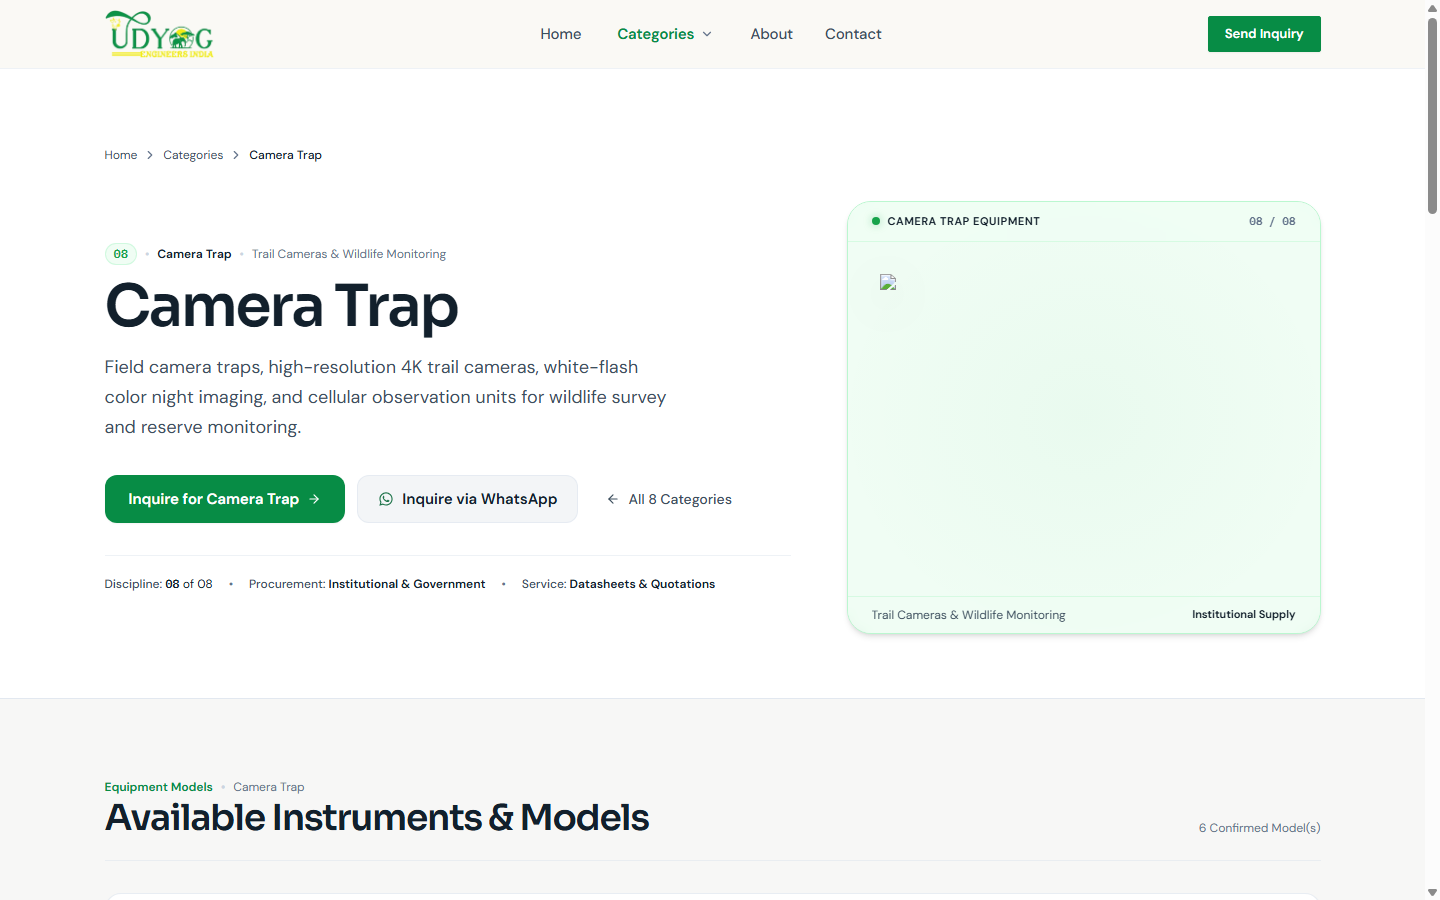
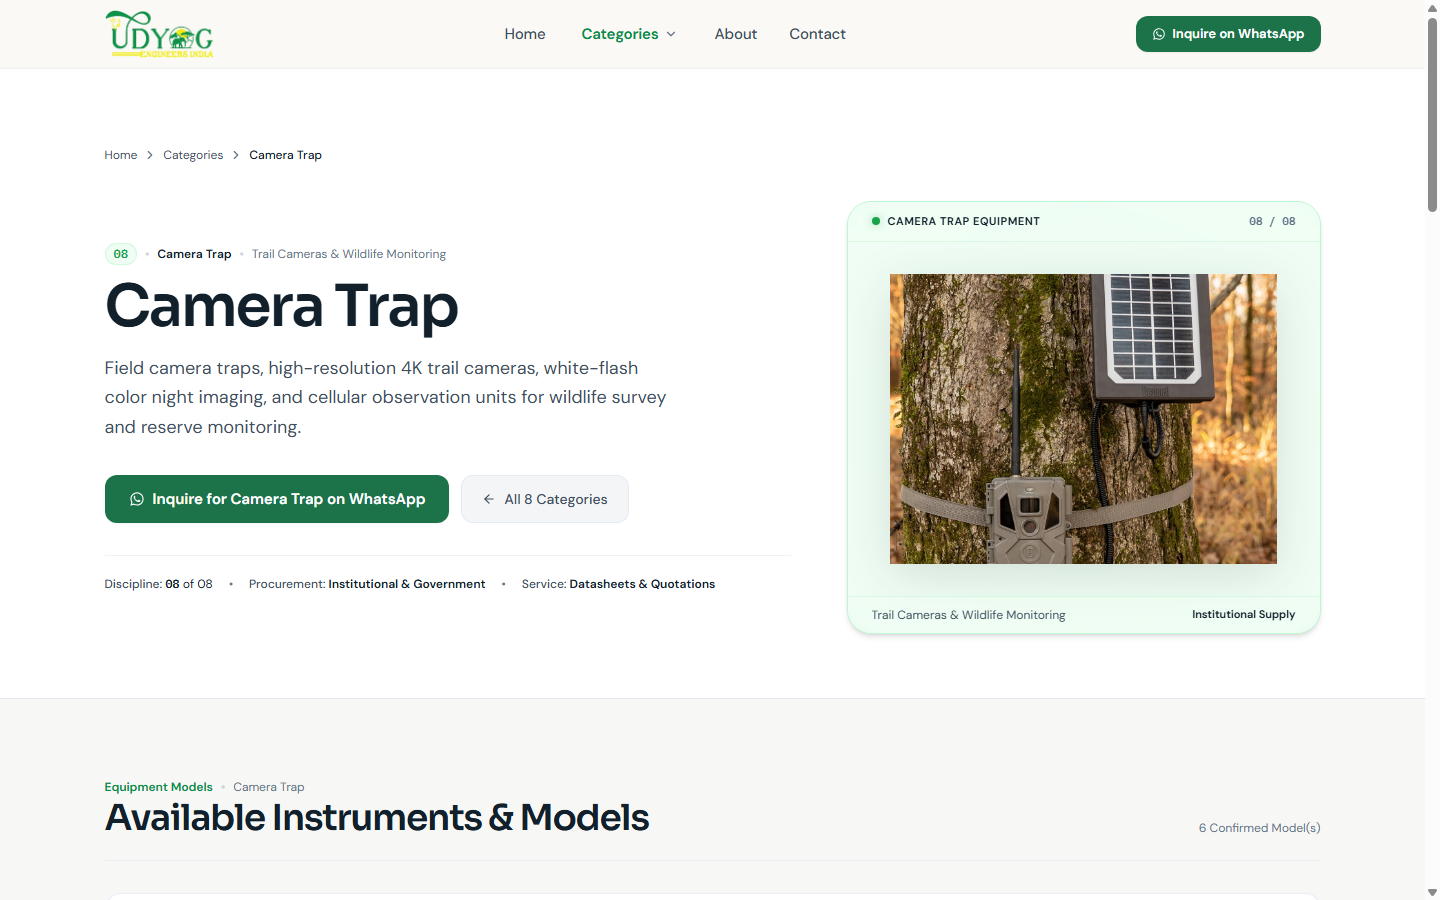
fix(camera-trap): replace generic imagery with authentic manufacturer photography for all 6 models and update category hero

diff --git a/data/products.ts b/data/products.ts
@@ -5806,7 +5806,7 @@ export const PRODUCTS: Product[] = [
     "category": "Camera Trap",
     "categorySlug": "camera-trap",
     "subcategory": "Cellular Trail Cameras",
-    "subcategorySlug": "cellular-camera-traps",
+    "subcategorySlug": "cellular-trail-cameras",
     "model": "X60 Series Cellular Trail Camera",
     "manufacturer": "GardePro",
     "manufacturerSource": "https://gardepro.com/collections/cellular-trail-cameras",
